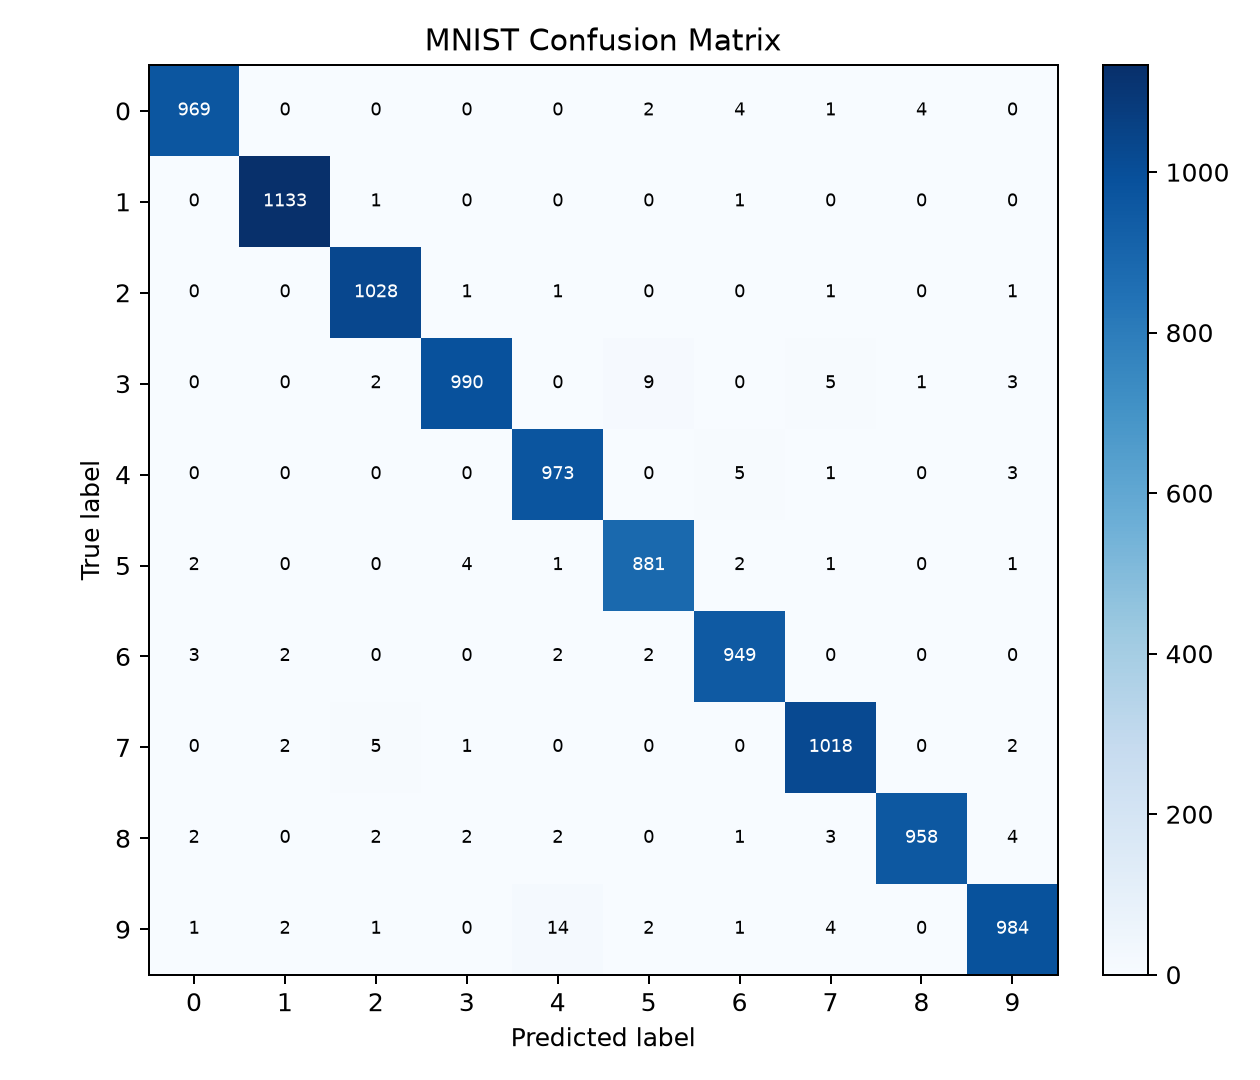
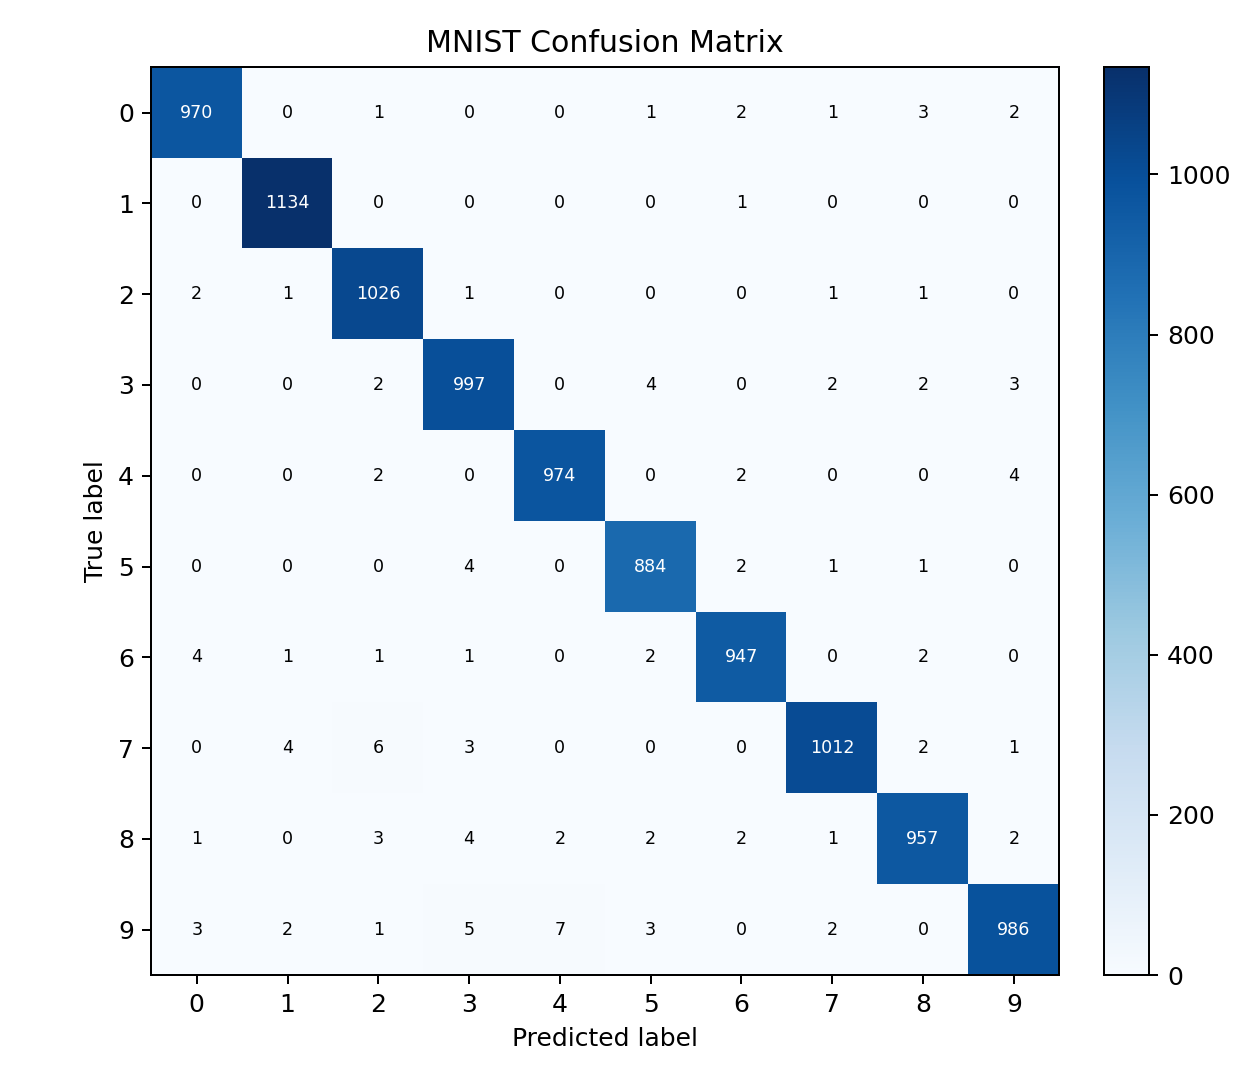
Update historical LeNet results and presentation

diff --git a/report/report_draft.md b/report/report_draft.md
@@ -12,7 +12,7 @@ LeNet-5 was introduced by LeCun et al. for document recognition and became one o
 
 Compared with fully connected neural networks, CNNs use far fewer parameters for image inputs and learn local visual features such as strokes, curves, and digit parts. Modern CNNs use different activations, batch normalization, residual connections, and larger datasets, but LeNet remains a compact baseline for explaining the core idea.
 
-The 1998 paper reports LeNet-5 at about 0.8% error on the MNIST test set. Our reproduction reaches 1.17% error. This is close for a short, simple run, but it does not meet the stricter wow target of matching within 0.2 percentage points.
+The 1998 paper reports LeNet-5 at about 0.8-0.95% error on the MNIST test set depending on the run. Our historical reproduction reaches 1.13% error, which is close to the 0.95% result but not equal to the best reported 0.8% result.
 
 ## 3. Dataset
 
@@ -92,15 +92,15 @@ python train.py --cpu --epochs 8 --batch-size 128
 | Metric | Value |
 |---|---:|
 | Parameters | 60,000 |
-| Epochs | TODO after historical run |
+| Epochs | 20 |
 | Batch size | 128 |
 | Learning rate | 0.001 |
-| Device | TODO after historical run |
-| Best validation accuracy | TODO after historical run |
-| Test accuracy | TODO after historical run |
-| Test error | TODO after historical run |
-| Test loss | TODO after historical run |
-| Training time | TODO after historical run |
+| Device | CPU |
+| Best validation accuracy | 98.64% |
+| Test accuracy | 98.87% |
+| Test error | 1.13% |
+| Test loss | 0.7290 |
+| Training time | 125.94 seconds |
 
 The model fits the course feasibility constraint comfortably: it trains end-to-end in far less than one hour, even on CPU.
 
@@ -108,11 +108,12 @@ Comparison to the paper:
 
 | System | Test error |
 |---|---:|
-| LeNet-5 reported by LeCun et al. | about 0.8% |
-| Our LeNet-5 style reproduction | 1.17% |
-| Gap | 0.37 percentage points |
+| LeNet-5 reported by LeCun et al. | about 0.8-0.95% |
+| Our historical LeNet-5 reproduction | 1.13% |
+| Gap to 0.95% result | 0.18 percentage points |
+| Gap to 0.8% result | 0.33 percentage points |
 
-The final historical comparison should be filled after rerunning the updated `lenet5` model on the cluster.
+This is a defensible reproduction result: it is within 0.2 percentage points of the 0.95% historical run, but not within 0.2 percentage points of the strongest 0.8% result.
 
 ## 7. Error Analysis
 
@@ -188,7 +189,7 @@ Why these changes are reasonable:
 Why these changes matter:
 
 - They make the project easier to reproduce, but they also mean the result is not an exact historical reproduction.
-- The 1.17% test error is close to the paper's 0.8%, but the gap is large enough that we should call this a LeNet-5 style reproduction, not a perfect replication.
+- The 1.13% test error is close to the paper's 0.95% run, but not to the strongest 0.8% figure.
 
 ## 11. Modern Baseline: ResNet-18
 
@@ -206,15 +207,15 @@ Final comparison:
 | Metric | LeNet-5 | ResNet-18 |
 |---|---:|---:|
 | Parameters | 60,000 | 11,172,810 |
-| Epochs | TODO | 5 |
-| Device | TODO | CPU |
-| Training time | TODO | 726.28 s |
-| Best validation accuracy | TODO | 98.88% |
-| Test accuracy | TODO | 99.18% |
-| Test error | TODO | 0.82% |
-| Checkpoint size | TODO | 44.77 MB |
+| Epochs | 20 | 5 |
+| Device | CPU | CPU |
+| Training time | 125.94 s | 726.28 s |
+| Best validation accuracy | 98.64% | 98.88% |
+| Test accuracy | 98.87% | 99.18% |
+| Test error | 1.13% | 0.82% |
+| Checkpoint size | 0.26 MB | 44.77 MB |
 
-The ResNet-18 result is already available. The historical LeNet-5 values should be filled after the updated cluster run.
+ResNet-18 improves test accuracy by 0.31 percentage points, but uses about 186 times more trainable parameters and takes about 5.8 times longer in our CPU run. This makes the comparison more interesting than simply saying that the modern model is better: historical LeNet-5 is almost as accurate on MNIST while being much smaller and easier to explain.
 
 ## 12. Limitations and Future Work
 

diff --git a/README.md b/README.md
@@ -16,14 +16,14 @@ Historical LeNet-5 final run:
 |---|---:|
 | Model | Historical LeNet-5 with RBF output |
 | Parameters | 60,000 |
-| Epochs | TODO after cluster run |
-| Device used | TODO after cluster run |
-| Training time | TODO after cluster run |
-| Best validation accuracy | TODO after cluster run |
-| Test accuracy | TODO after cluster run |
-| Test error | TODO after cluster run |
+| Epochs | 20 |
+| Device used | CPU |
+| Training time | 125.94 seconds |
+| Best validation accuracy | 98.64% |
+| Test accuracy | 98.87% |
+| Test error | 1.13% |
 
-LeCun et al. reported about 0.8-0.95% test error for LeNet-5 on MNIST depending on the specific run and training setting. The historical model must be rerun after this architecture update before reporting the final comparison.
+LeCun et al. reported about 0.8-0.95% test error for LeNet-5 on MNIST depending on the specific run and training setting. Our historical reproduction reaches 1.13% error: within 0.18 percentage points of the 0.95% run, but not within 0.2 percentage points of the best 0.8% figure.
 
 ## Approach
 
@@ -167,15 +167,15 @@ Final ResNet-18 baseline run:
 | Metric | LeNet-5 | ResNet-18 |
 |---|---:|---:|
 | Parameters | 60,000 | 11,172,810 |
-| Epochs | TODO | 5 |
-| Device used | TODO | CPU |
-| Training time | TODO | 726.28 s |
-| Best validation accuracy | TODO | 98.88% |
-| Test accuracy | TODO | 99.18% |
-| Test error | TODO | 0.82% |
-| Checkpoint size | TODO | 44.77 MB |
+| Epochs | 20 | 5 |
+| Device used | CPU | CPU |
+| Training time | 125.94 s | 726.28 s |
+| Best validation accuracy | 98.64% | 98.88% |
+| Test accuracy | 98.87% | 99.18% |
+| Test error | 1.13% | 0.82% |
+| Checkpoint size | 0.26 MB | 44.77 MB |
 
-The modern ResNet-18 baseline is already trained. The historical LeNet-5 column should be filled from the next cluster run.
+ResNet-18 is more accurate by 0.31 percentage points, but it uses about 186x more trainable parameters and took about 5.8x longer in our CPU run.
 
 ## Make report figures
 

diff --git a/report/what_changed_and_why.md b/report/what_changed_and_why.md
@@ -37,14 +37,14 @@ These choices are the core of the historical architecture and make the model eas
 
 ## Result
 
-The previous modernized LeNet run is superseded by the historical implementation. The final values below should be replaced after rerunning `python train.py --model lenet5`:
+The previous LeNet run is superseded by the historical implementation. The final pulled run reports:
 
-- best validation accuracy: TODO
-- test accuracy: TODO
-- test error: TODO
-- training time: TODO
+- best validation accuracy: 98.64%
+- test accuracy: 98.87%
+- test error: 1.13%
+- training time: 125.94 seconds on CPU
 
-LeCun et al. report about 0.8-0.95% error for LeNet-5 depending on the run. We should compare against that range after the updated historical run.
+LeCun et al. report about 0.8-0.95% error for LeNet-5 depending on the run. Our error is within 0.18 percentage points of 0.95%, but not within 0.2 percentage points of 0.8%.
 
 ## Modern baseline
 
@@ -57,7 +57,7 @@ python evaluate.py --model resnet18 --checkpoint checkpoints/resnet18_mnist_best
 
 This represents what we would try today: a deeper residual network with batch normalization. For MNIST, ResNet-18 is probably overpowered, but it is useful for explaining the historical difference between compact early CNNs and modern deep residual architectures.
 
-The ResNet-18 baseline reached 99.18% test accuracy with 11,172,810 parameters and 726.28 seconds of CPU training. The historical LeNet-5 comparison should be updated after the new run.
+The ResNet-18 baseline reached 99.18% test accuracy with 11,172,810 parameters and 726.28 seconds of CPU training. Historical LeNet-5 reached 98.87% test accuracy with 60,000 parameters and 125.94 seconds of CPU training.
 
 ## Historical LeNet-5 experiment
 

diff --git a/slides/slide_outline.md b/slides/slide_outline.md
@@ -50,10 +50,10 @@ Mention parameter count from final run.
 Final metrics:
 
 - parameters: 60,000
-- best validation accuracy: TODO after historical cluster run
-- test accuracy: TODO after historical cluster run
-- test error: TODO after historical cluster run
-- training time: TODO after historical cluster run
+- best validation accuracy: 98.64%
+- test accuracy: 98.87%
+- test error: 1.13%
+- training time: 125.94 seconds on CPU
 
 Compare to LeNet-5 paper:
 
@@ -107,6 +107,7 @@ Show one of:
 - Reproduced a classic CNN baseline
 - Built clean train/evaluate/demo pipeline
 - Historical LeNet-5 has exactly 60,000 trainable parameters
+- Final historical LeNet-5 test accuracy is 98.87%
 - Explained differences from the 1998 LeNet-5 design
 
 ## 14. Q&A